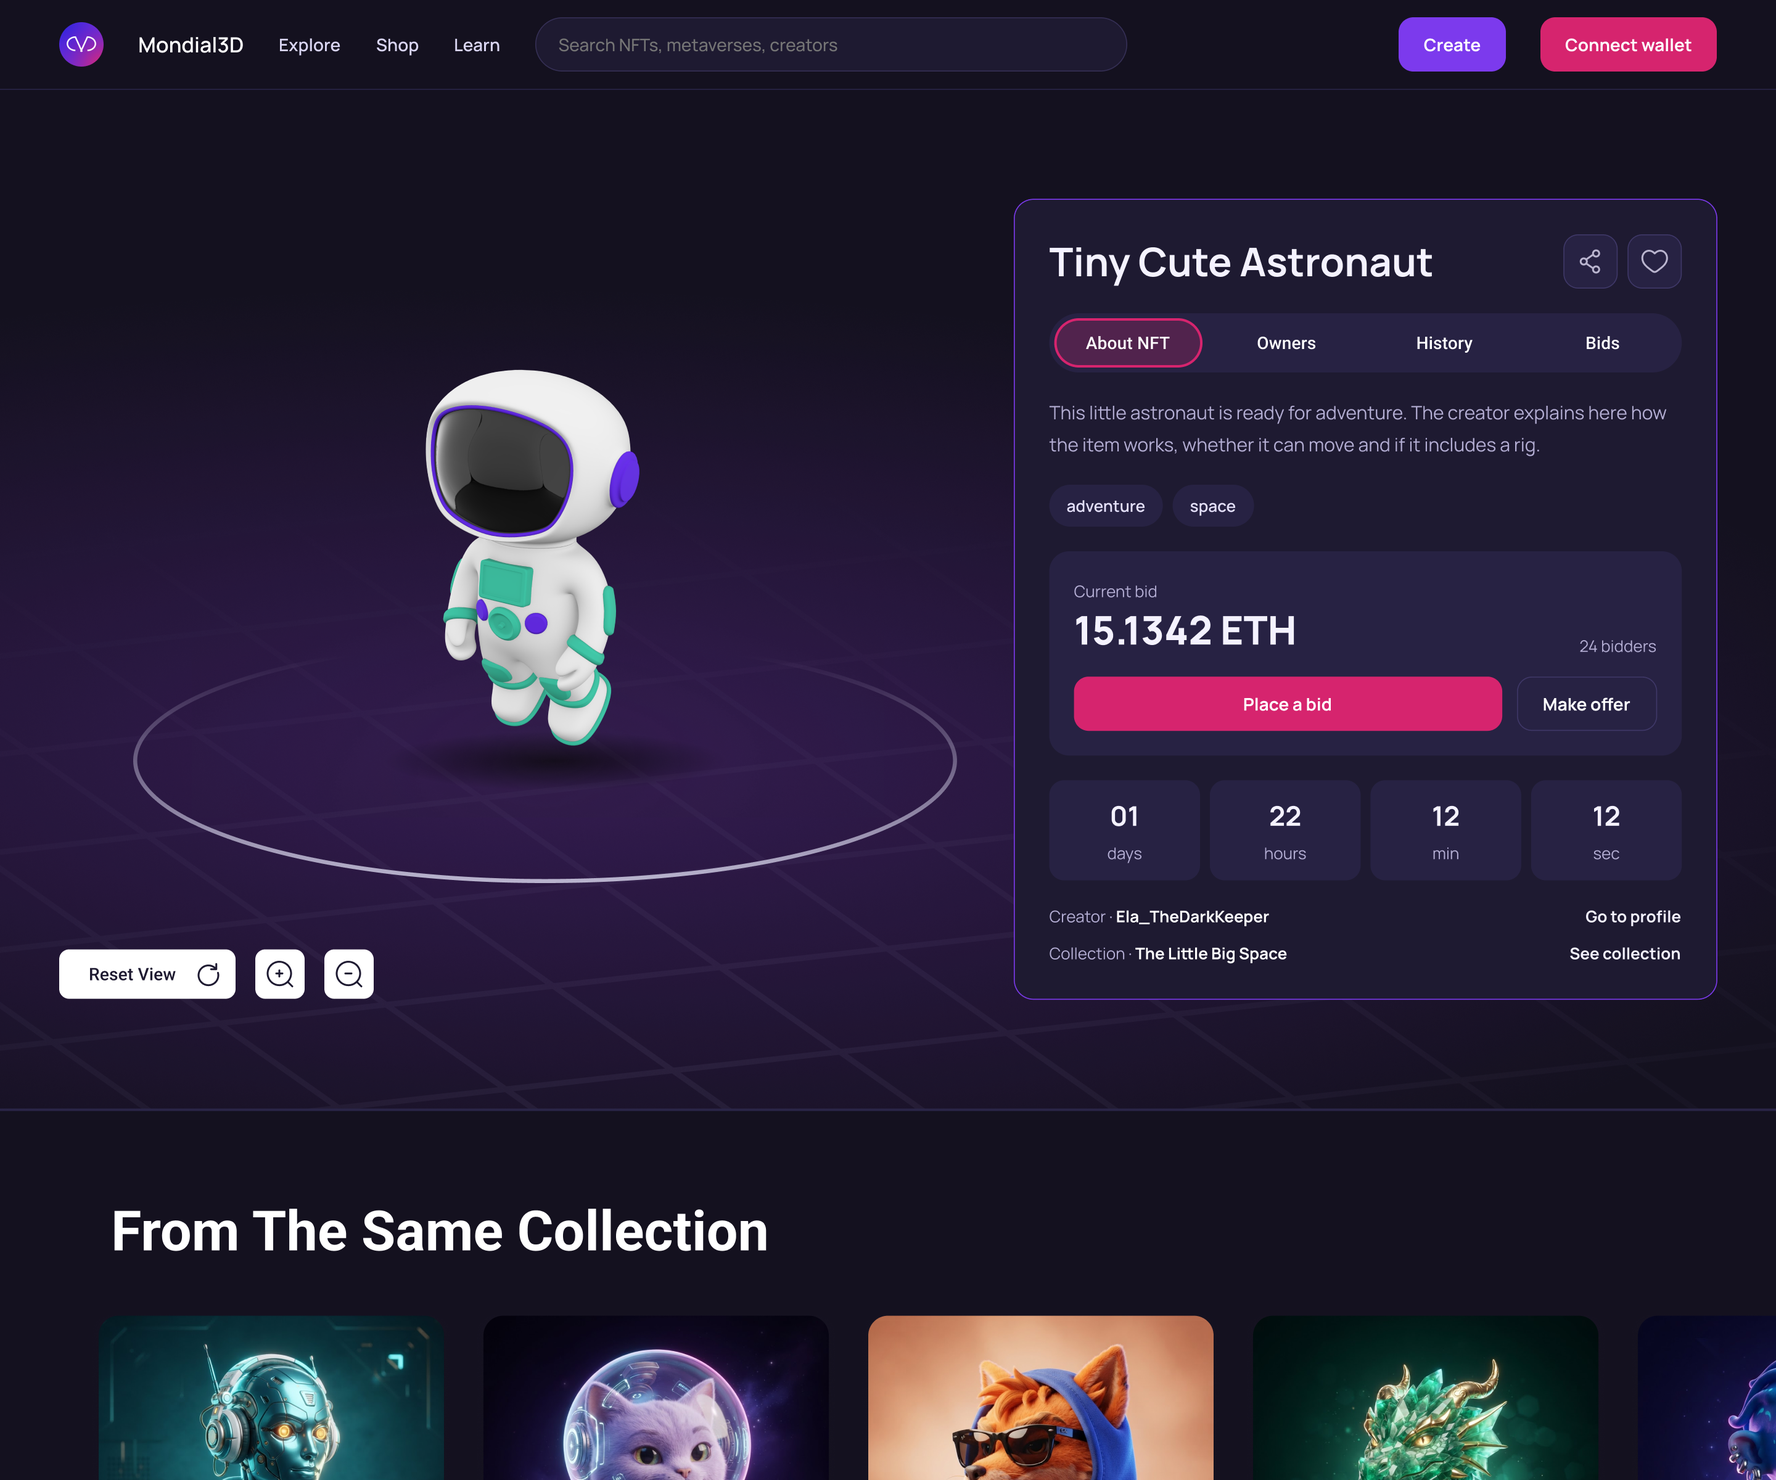
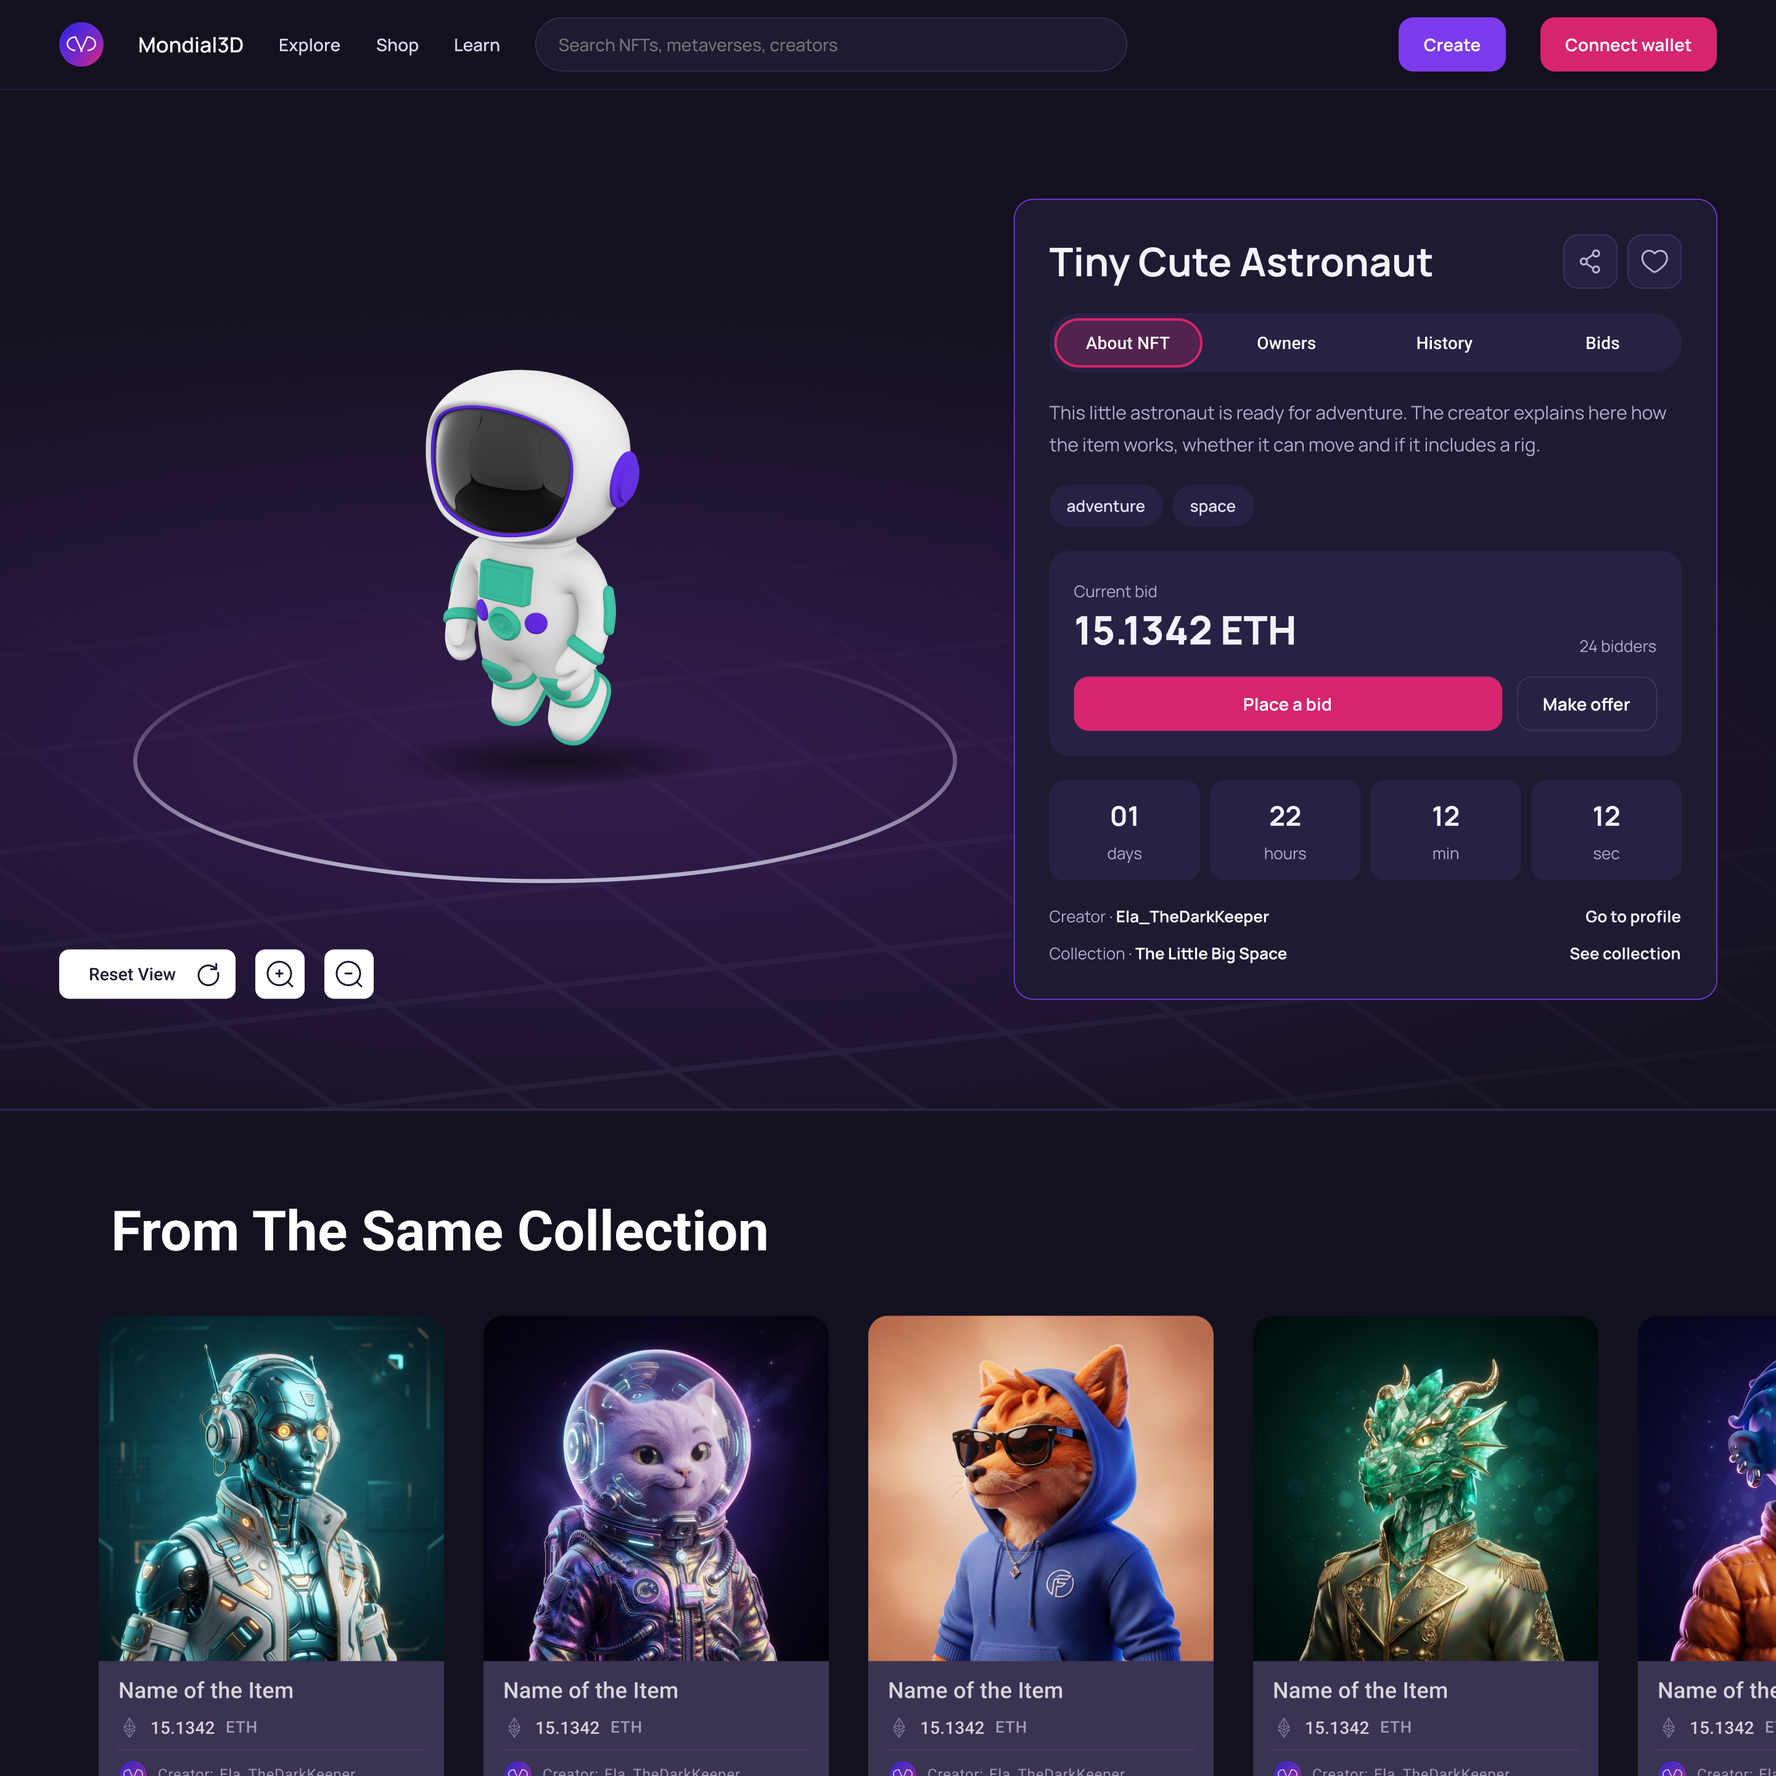
feat: complete MetaMondial project data, add dynamic metrics support, and update comments styling

diff --git a/src/data/projects/metamondial3dData.js b/src/data/projects/metamondial3dData.js
@@ -7,7 +7,7 @@ export const metamondial3dData = {
     subtitle: 'Metaverse & NFT Platform',
     mockupUrl: 'metamondial3d.com',
     thumbnail: '/assets/projects/metamondial3d/thumbnail.png',
-    mockupGradient: 'linear-gradient(135deg, var(--color-surface-dark), var(--color-surface-dark-alt))',
+    mockupGradient: 'linear-gradient(135deg, #E22469, #2c5de5)',
     meta: [
       { label: 'Role', value: 'Product Designer' },
       { label: 'Timeline', value: 'June - July 2022' },
@@ -17,7 +17,7 @@ export const metamondial3dData = {
   },
   overview: {
     p1: 'Meta Mondial 3D is an online 3D modeling tool specialized for creating NFT and metaverse-Friendly assets in an online platform. At the moment of project, the tool was in the beta version and my responsiblity was to create landings and platform pages for the fund-raising stage.',
-    p2: 'Client brief is simple: they want to have a website, similiar to other 3D asset markets, while also have other features like Metaverse and NFT capabilities. It should look modern and easy to build. My work covered:',
+    p2: 'The brief called for a modern, scalable platform combining the familiarity of established 3D asset marketplaces with Web3, NFT, and metaverse capabilities. The interface needed to feel contemporary and visually engaging while remaining straightforward for engineering to implement during early-stage development. Key deliverables included:',
     checklists: [
       { bg: 'var(--color-orange)', text: 'Landing Page' },
       { bg: 'var(--color-purple-light)', text: 'NFT Market' },
@@ -36,91 +36,82 @@ export const metamondial3dData = {
   },
   impact: {
     intro:
-      '[Summarize the outcome in two or three sentences: who it helped and what changed.]',
+      'Navigating this fast-paced engagement highlighted key operational gaps in early-stage freelance projects. I channeled the experience into overhauling my workflow—transforming loose scoping and design handoffs into a structured, automated delivery system.',
+    hint: 'Keep scrolling to move through deliverables and process outcomes.',
     metrics: [
       {
-        numLabel: 'METRIC 1 OF 4',
+        numLabel: 'METRIC 1 OF 3',
         kClass: 'k0',
-        title: '[One-line headline about this result]',
-        desc: '[Explain how it was measured, the time period, and what drove the change.]',
-        cardLabel: '● [Metric name]',
+        title: 'Pitch-Ready Platform Deliverables',
+        desc: 'Designed 6 core modules—Landing, 3D Preview, NFT Marketplace, Artist Profiles, Bidding System, and Metaverse Explore—packaged into high-fidelity desktop prototypes for early fundraising.',
+        cardLabel: '● Deliverables',
         cardTagBg: 'var(--color-primary-tint)',
         cardTagColor: 'var(--color-primary-dark)',
-        cardPeriod: '[Period]',
-        cardValue: '[+00%]',
+        cardPeriod: 'June - July 2022',
+        cardValue: '6',
         cardValueColor: 'var(--color-primary-dark)',
-        cardSub: '[Key metric, e.g. activation]',
+        cardSub: 'Core platform modules designed',
         barColor: 'var(--color-primary)'
       },
       {
-        numLabel: 'METRIC 2 OF 4',
+        numLabel: 'METRIC 2 OF 3',
         kClass: 'k1',
-        title: '[One-line headline about this result]',
-        desc: '[Explain how it was measured, the time period, and what drove the change.]',
-        cardLabel: '● [Metric name]',
+        title: 'Standardized Project Template & Design Ops',
+        desc: 'Built a reusable Figma project template with modular page structures, dark-theme tokens, and layout grids to dramatically accelerate future kickoff and developer handoff times.',
+        cardLabel: '● Design Ops',
         cardTagBg: 'var(--color-purple-tint)',
         cardTagColor: 'var(--color-purple)',
-        cardPeriod: '[Period]',
-        cardValue: '[−00%]',
+        cardPeriod: 'Workflow template',
+        cardValue: '1',
         cardValueColor: 'var(--color-purple)',
-        cardSub: '[Key metric, e.g. time to complete a task]',
+        cardSub: 'Modular Figma project framework',
         barColor: 'var(--color-purple-light)'
       },
       {
-        numLabel: 'METRIC 3 OF 4',
+        numLabel: 'METRIC 3 OF 3',
         kClass: 'k2',
-        title: '[One-line headline about this result]',
-        desc: '[Explain how it was measured, the time period, and what drove the change.]',
-        cardLabel: '● [Metric name]',
+        title: 'Contract Scoping & Process Automation',
+        desc: 'Developed a formal freelance contract and scoping system with automated sprint milestones, explicit scope boundaries, and change-request guidelines to eliminate timeline misalignment.',
+        cardLabel: '● Operations',
         cardTagBg: 'var(--color-green-tint)',
         cardTagColor: 'var(--color-green-dark)',
-        cardPeriod: '[Period]',
-        cardValue: '[00]',
+        cardPeriod: 'Client workflow',
+        cardValue: '1',
         cardValueColor: 'var(--color-green-dark)',
-        cardSub: '[Screens or flows delivered]',
+        cardSub: 'Contract & scoping system established',
         barColor: 'var(--color-green)'
-      },
-      {
-        numLabel: 'METRIC 4 OF 4',
-        kClass: 'k3',
-        title: '[One-line headline about this result]',
-        desc: '[Explain how it was measured, the time period, and what drove the change.]',
-        cardLabel: '● [Metric name]',
-        cardTagBg: 'var(--color-orange-tint)',
-        cardTagColor: 'var(--color-orange-dark)',
-        cardPeriod: '[Period]',
-        cardValue: '[00]',
-        cardValueColor: 'var(--color-orange-dark)',
-        cardSub: '[Another outcome]',
-        barColor: 'var(--color-orange)'
       }
     ]
   },
   timeline: {
+    alert: {
+      variant: 'warning',
+      text: 'In full transparency, this engagement concluded after the first month due to misaligned expectations around project scope, timeline, and compensation. Despite the early conclusion, it served as an invaluable lesson in contract scoping, setting clear boundaries, and managing client expectations—as reflected below.'
+    },
     steps: [
       {
         dotColor: 'var(--color-orange)',
-        period: '[Phase 1] · Discovery',
+        period: 'Phase 1 · Discovery',
         title: 'Competitor Analysis & Foundation',
-        desc: "I've spent 4 days to check competitors & Ideas given to me. My Client wanted to have something similar to ArtStation, but focus on AI, NFT & Metaverse. In this phase, I managed to analyze 4 similar companies related to metaverse to learn how they behave and what do they target. [Add the outcome in one line.]"
+        desc: 'Analyzed direct competitors and industry benchmarks, evaluating ArtStation for creator showcase flows and asset discovery, alongside metaverse ecosystems like Decentraland for Web3 interaction patterns. Synthesized user mental models and target creator needs into a focused information architecture and MVP product scope.'
       },
       {
         dotColor: 'var(--color-purple-light)',
-        period: '[Phase 2] · Design',
+        period: 'Phase 2 · Design',
         title: 'Sketching & Wireframing',
-        desc: '[What happened in this phase]. [Add the outcome in one line.]'
+        desc: 'Translated requirements into low-to-mid-fidelity wireframes across core user journeys, including 3D asset exploration, auction/bidding states, and multi-tier profile layouts. Iterated rapidly with the client through weekly design syncs to align on visual hierarchy and interaction models before committing to high-fidelity styling.'
       },
       {
         dotColor: 'var(--color-green)',
-        period: '[Phase 3] · Delivery',
+        period: 'Phase 3 · Delivery',
         title: 'Revision & Implementation',
-        desc: '[What happened in this phase]. [Add the outcome in one line.]'
+        desc: 'Delivered high-fidelity UI screens and interactive desktop prototypes, establishing an exploratory dark-theme visual language suited for Web3 and 3D creators. Conducted feedback revisions and packaged developer-ready design specs, component styles, and asset exports to support engineering during the fundraising stage.'
       },
       {
         dotColor: 'var(--color-primary-light)',
-        period: '[Phase 4] · Outcome',
+        period: 'Phase 4 · Outcome',
         title: 'Mistakes, Lessons & Reflections',
-        desc: '[What happened in this phase]. [Add the outcome in one line.]'
+        desc: 'This engagement provided crucial freelance takeaways on project scoping, change management, and commercial alignment. As feature requests quickly expanded beyond initial timelines, it reinforced the necessity of establishing clear scope boundaries, written sign-offs, and staged sprint deliverables when navigating fast-paced client contracts.'
       }
     ]
   },
@@ -128,28 +119,28 @@ export const metamondial3dData = {
     type: 'desktop',
     items: [
       {
-        gradient: 'linear-gradient(135deg, var(--color-orange), var(--color-orange-light))',
-        label: 'NFT Marketplace'
+        bg: '/assets/projects/metamondial3d/mockups/showcase-landing-part-1.png',
+        label: 'Landing Part 1'
       },
       {
-        gradient: 'linear-gradient(135deg, var(--color-orange), var(--color-orange-light))',
+        bg: '/assets/projects/metamondial3d/mockups/showcase-landing-part-2.png',
+        label: 'Landing Part 2'
+      },
+      {
+        bg: '/assets/projects/metamondial3d/mockups/showcase-metaverse-explore.png',
         label: 'Metaverse Explore'
+      },
+      {
+        bg: '/assets/projects/metamondial3d/mockups/showcase-collection-explore.png',
+        label: 'NFT Marketplace'
       },
       {
         bg: '/assets/projects/metamondial3d/mockups/showcase-profile-page.png',
         label: 'Artist Profile'
       },
       {
-        gradient: 'linear-gradient(135deg, var(--color-green), var(--color-primary-light))',
-        label: 'Bidding System'
-      },
-      {
         bg: '/assets/projects/metamondial3d/mockups/showcase-nft-page.png',
         label: 'NFT Page'
-      },
-      {
-        gradient: 'linear-gradient(135deg, var(--color-primary-light), var(--color-green))',
-        label: 'Asset Library'
       }
     ]
   },

diff --git a/src/components/project/ProjectImpact/ProjectImpact.jsx b/src/components/project/ProjectImpact/ProjectImpact.jsx
@@ -26,13 +26,13 @@ export default function ProjectImpact({ impact, label = '02 · IMPACT' }) {
                 {impact.intro}
               </p>
               <div className={styles.descContainer}>
-                {impact.metrics.map(m => (
+                {impact.metrics.map((m, i) => (
                   <div
-                    key={m.numLabel + m.title}
+                    key={m.numLabel || m.title || i}
                     className={`${styles.descSlide} is-desc`}
                   >
-                    <p className={`${styles.descNumLabel} ${styles[m.kClass] || ''}`}>
-                      {m.numLabel}
+                    <p className={`${styles.descNumLabel} ${styles[m.kClass] || styles[`k${i % 4}`] || ''}`}>
+                      {m.numLabel || `METRIC ${i + 1} OF ${impact.metrics.length}`}
                     </p>
                     <h3 className={`${styles.descTitle} ${styles.textPrimary}`}>
                       {m.title}
@@ -54,11 +54,11 @@ export default function ProjectImpact({ impact, label = '02 · IMPACT' }) {
                   ))}
                 </div>
                 <span className={`${styles.progressCounter} ${styles.textMuted} pgc`}>
-                  01 / 0{impact.metrics.length}
+                  01 / {String(impact.metrics.length).padStart(2, '0')}
                 </span>
               </div>
               <p className={`${styles.progressHint} ${styles.textMuted}`}>
-                Example metrics. Replace with your own. Keep scrolling to move through them.
+                {impact.hint || 'Keep scrolling to move through deliverables and impact.'}
               </p>
             </div>
             <div className={styles.cardsContainer}>
@@ -102,7 +102,10 @@ export default function ProjectImpact({ impact, label = '02 · IMPACT' }) {
               ))}
             </div>
           </div>
-          <div className={styles.spacer} />
+          <div
+            className={styles.spacer}
+            style={{ height: `${Math.max(0, (impact.metrics.length - 1) * 460)}px` }}
+          />
         </div>
 
         {/* Mobile vertical flow with compact cards under each title */}
@@ -119,8 +122,8 @@ export default function ProjectImpact({ impact, label = '02 · IMPACT' }) {
           <div className={styles.mobileList}>
             {impact.metrics.map((m, i) => (
               <div key={i} className={styles.mobileItem}>
-                <p className={`${styles.descNumLabel} ${styles[m.kClass] || ''}`}>
-                  {m.numLabel}
+                <p className={`${styles.descNumLabel} ${styles[m.kClass] || styles[`k${i % 4}`] || ''}`}>
+                  {m.numLabel || `METRIC ${i + 1} OF ${impact.metrics.length}`}
                 </p>
                 <h3 className={`${styles.mobileItemTitle} ${styles.textPrimary}`}>
                   {m.title}

diff --git a/src/data/projects/pinketCustomerData.js b/src/data/projects/pinketCustomerData.js
@@ -180,11 +180,11 @@ export const pinketCustomerData = {
       quote: 'Armin has always paid close attention to detail and made collaboration between design and frontend teams a priority, doing both exceptionally well.\n His designs are always clear and well-documented, allowing frontend developers to start implementation with confidence and without ambiguity.'
     },
     {
-      initials: 'TL',
+      initials: 'BE',
       avatarBg: 'green',
-      name: '[Teammate Name]',
-      role: 'Team Lead / Engineering',
-      quote: '[Replace with a quote on speed, initiative, business impact, or how the work moved the team forward.]'
+      name: 'Amirhossein Sheikh',
+      role: 'Senior Backend Developer',
+      quote: 'Armin combines strong design expertise with an exceptional product mindset, contributing to product decisions and balancing user needs, business goals, and technical constraints. His attention to detail and commitment to quality consistently stand out.\n What truly sets Armin apart is his sense of ownership, leadership, and collaborative spirit. His dedication and genuine care for the product and the people behind it make him an invaluable teammate.'
     }
   ],
   nav: {

diff --git a/src/components/project/ProjectTimeline/ProjectTimeline.jsx b/src/components/project/ProjectTimeline/ProjectTimeline.jsx
@@ -1,5 +1,6 @@
 import React from 'react'
 import SectionHeader from '../../common/SectionHeader/SectionHeader'
+import Alert from '../../common/Alert/Alert'
 import styles from './ProjectTimeline.module.css'
 
 export default function ProjectTimeline({ timeline, label = '03 · TIMELINE' }) {
@@ -11,7 +12,15 @@ export default function ProjectTimeline({ timeline, label = '03 · TIMELINE' }) 
         label={label}
         title="How the work evolved"
         className={styles.header}
-      />
+      >
+        {timeline.alert && (
+          <div className={styles.alertWrap}>
+            <Alert variant={timeline.alert.variant || 'warning'}>
+              {timeline.alert.text || timeline.alert}
+            </Alert>
+          </div>
+        )}
+      </SectionHeader>
       <div className={styles.track}>
         {timeline.steps.map((step, index) => (
           <div key={index} className={styles.step}>

diff --git a/src/components/common/CommentCard/CommentCard.jsx b/src/components/common/CommentCard/CommentCard.jsx
@@ -25,6 +25,10 @@ export default function CommentCard({
   children
 }) {
   const bg = resolveColor(avatarBg);
+  const formattedQuote =
+    typeof quote === 'string'
+      ? quote.replace(/^["“](.*)["”]$/s, '$1')
+      : quote;
 
   return (
     <div
@@ -55,9 +59,7 @@ export default function CommentCard({
       </div>
       {quote && (
         <p className={styles.quote}>
-          {quote.startsWith('"') || quote.startsWith('“') || quote.startsWith('&quot;')
-            ? quote
-            : `"${quote}"`}
+          {formattedQuote}
         </p>
       )}
       {children}

diff --git a/src/components/common/CommentCard/CommentCard.module.css b/src/components/common/CommentCard/CommentCard.module.css
@@ -54,4 +54,6 @@
   font-size: var(--font-size-body);
   line-height: var(--line-height-body-lg);
   color: var(--color-text-secondary);
+  white-space: pre-line;
+  font-style: italic;
 }

diff --git a/src/components/project/ProjectTimeline/ProjectTimeline.module.css b/src/components/project/ProjectTimeline/ProjectTimeline.module.css
@@ -8,6 +8,11 @@
   margin-bottom: 40px;
 }
 
+.alertWrap {
+  margin-top: 20px;
+  max-width: 680px;
+}
+
 .track {
   --line-width: 1px;
   --track-gap: 32px;
